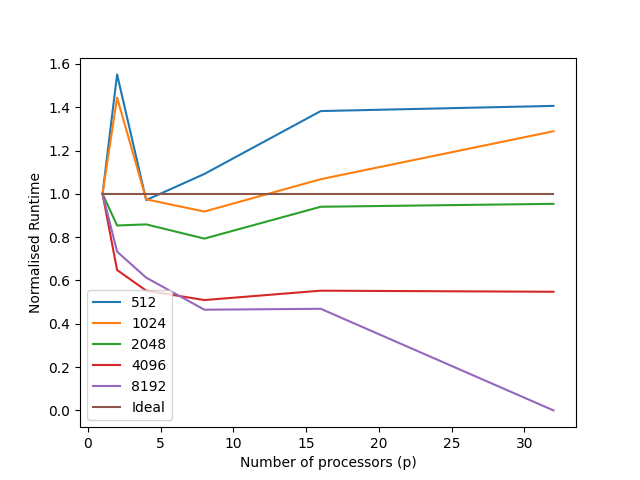
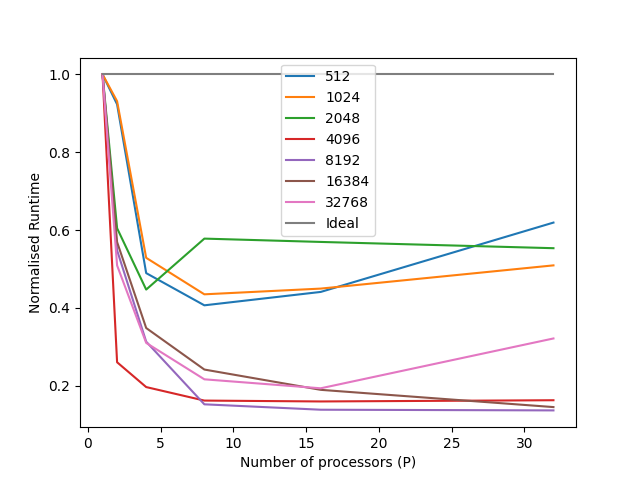
Updating Graphs

diff --git a/TesterFiles/MPI/Lapack/MatrixMult_MPI_SGEMM_Scatter.py b/TesterFiles/MPI/Lapack/MatrixMult_MPI_SGEMM_Scatter.py
@@ -13,13 +13,14 @@ mat_power = int(sys.argv[1])
 mat_size = 2**mat_power
 
 # Initialize the 2 random matrices only if this is rank 0
-mat_A = None
-mat_B = None
 if rank == 0:
     mat_A = np.random.rand(mat_size,mat_size).astype(np.float32)
     mat_B = np.random.rand(mat_size,mat_size).astype(np.float32)
     mat_B = np.transpose(mat_B)
     mat_B = np.ascontiguousarray(mat_B, dtype=np.float32)
+else:
+    mat_A = None
+    mat_B = None
 
 comm.Barrier()
 total_start = MPI.Wtime()
@@ -30,35 +31,28 @@ pars_j = int(2**(np.floor(power)))
 len_i = int(mat_size/pars_i)
 len_j = int(mat_size/pars_j)
 factor = 2**(int(np.log2(size))%2)
+count_A = [len_i*mat_size for _ in range(size)]
+count_B = [len_j*mat_size for _ in range(size)]
 displ_A = [len_i*mat_size * (factor * list_rank // pars_i) for list_rank in range(size)]
 displ_B = [len_j*mat_size * (list_rank % pars_j) for list_rank in range(size)]
 
 sub_mat_A = np.empty((len_i,mat_size),dtype=np.float32)
 sub_mat_B = np.empty((len_j,mat_size),dtype=np.float32)
 
-if rank == 0:
-    for i in range(1,size):
-        comm.Send([mat_A[displ_A[i]:displ_A[i]+len_i],MPI.FLOAT],dest=i,tag=25)
-        comm.Send([mat_B[displ_B[i]:displ_B[i]+len_j],MPI.FLOAT],dest=i,tag=25)
-    sub_mat_A = mat_A[displ_A[0]:displ_A[0]+len_i]
-    sub_mat_B = mat_B[displ_B[0]:displ_B[0]+len_j]
-else:
-    comm.Recv([sub_mat_A,MPI.FLOAT],source=0)
-    comm.Recv([sub_mat_B,MPI.FLOAT],source=0)
+comm.Scatterv([mat_A,count_A,displ_A,MPI.FLOAT],sub_mat_A,root=0)
+comm.Scatterv([mat_B,count_B,displ_B,MPI.FLOAT],sub_mat_B,root=0)
 
-del mat_A
-del mat_B 
+mat_A = None
+mat_B = None
 
-comm.Barrier()
 calc_start = MPI.Wtime()
 
 sub_mat_C = FB.sgemm(alpha=1.0, a=sub_mat_A, b=sub_mat_B, trans_b=True)
 
-comm.Barrier()
 calc_finish = MPI.Wtime()
 
-del sub_mat_A
-del sub_mat_B
+sub_mat_A = None
+sub_mat_B = None
 
 mat_C = None
 if rank == 0:
@@ -69,7 +63,6 @@ displ_C = [len_i*len_j*list_rank for list_rank in range(size)]
 sub_mat_C = np.ascontiguousarray(sub_mat_C, dtype=np.float32)
 comm.Gatherv(sub_mat_C,[mat_C,count_C,displ_C,MPI.FLOAT],root=0)
 
-comm.Barrier()
 total_finish = MPI.Wtime()
 
 if rank == 0:
@@ -107,14 +100,13 @@ if rank == 0:
     gather_df = pd.read_pickle("Time_dfs/gather_df.pkl")
     total_df = pd.read_pickle("Time_dfs/total_df.pkl")
     max_cores = 32
-    max_core_power = 6
-    core_list = [2**j for j in range(max_core_power)]
+    core_list = [2**j for j in range(mat_power+1)]
     if size == 1:
         #add a new line with a new val at the left
-        scatter_df = scatter_df.append( pd.DataFrame([[scatter_time if i==0 else 0.0 for i in range(max_core_power)]],columns=core_list, index=[mat_size]) )
-        calc_df = calc_df.append( pd.DataFrame([[calc_time if i==0 else 0.0 for i in range(max_core_power)]],columns=core_list, index=[mat_size]) )
-        gather_df = gather_df.append( pd.DataFrame([[gather_time if i==0 else 0.0 for i in range(max_core_power)]],columns=core_list, index=[mat_size]) )
-        total_df = total_df.append( pd.DataFrame([[total_time if i==0 else 0.0 for i in range(max_core_power)]],columns=core_list, index=[mat_size]) )
+        scatter_df = scatter_df.append( pd.DataFrame([[scatter_time if i==0 else 0.0 for i in range(mat_power+1)]],columns=core_list, index=[mat_size]) )
+        calc_df = calc_df.append( pd.DataFrame([[calc_time if i==0 else 0.0 for i in range(mat_power+1)]],columns=core_list, index=[mat_size]) )
+        gather_df = gather_df.append( pd.DataFrame([[gather_time if i==0 else 0.0 for i in range(mat_power+1)]],columns=core_list, index=[mat_size]) )
+        total_df = total_df.append( pd.DataFrame([[total_time if i==0 else 0.0 for i in range(mat_power+1)]],columns=core_list, index=[mat_size]) )
     elif size > 1:
         #add new value at right place
         size_power = int(np.log2(size))

diff --git a/TesterFiles/MPI/Lapack/MatrixMult_MPI_SGEMM_Send.py b/TesterFiles/MPI/Lapack/MatrixMult_MPI_SGEMM_Send.py
@@ -1,0 +1,83 @@
+from scipy.linalg import blas as FB
+from mpi4py import MPI
+import pandas as pd
+import numpy as np
+import time
+import sys
+
+# mpiexec -n 32 python MatrixMult_MPI_SGEMM_Send.py 13
+
+
+comm = MPI.COMM_WORLD
+rank = comm.Get_rank()
+size = comm.Get_size()
+
+mat_power = int(sys.argv[1])
+mat_size = 2**mat_power
+
+# Initialize the 2 random matrices only if this is rank 0
+if rank == 0:
+    mat_A = np.random.rand(mat_size,mat_size).astype(np.float32)
+    mat_B = np.random.rand(mat_size,mat_size).astype(np.float32)
+    mat_B = np.transpose(mat_B)
+    mat_B = np.ascontiguousarray(mat_B, dtype=np.float32)
+else:
+    mat_A = None
+    mat_B = None
+
+comm.Barrier()
+total_start = MPI.Wtime()
+
+power = np.log2(size)/2
+pars_i = int(2**(np.ceil(power)))
+pars_j = int(2**(np.floor(power)))
+len_i = int(mat_size/pars_i)
+len_j = int(mat_size/pars_j)
+factor = 2**(int(np.log2(size))%2)
+displ_A = [len_i * (factor * list_rank // pars_i) for list_rank in range(size)]
+displ_B = [len_j * (list_rank % pars_j) for list_rank in range(size)]
+
+sub_mat_A = np.empty((len_i,mat_size),dtype=np.float32)
+sub_mat_B = np.empty((len_j,mat_size),dtype=np.float32)
+
+if rank == 0:
+    for i in range(1,size):
+        comm.Send([mat_A[displ_A[i]:displ_A[i]+len_i],MPI.FLOAT],dest=i,tag=25)
+        comm.Send([mat_B[displ_B[i]:displ_B[i]+len_j],MPI.FLOAT],dest=i,tag=25)
+    sub_mat_A = mat_A[displ_A[0]:displ_A[0]+len_i]
+    sub_mat_B = mat_B[displ_B[0]:displ_B[0]+len_j]
+else:
+    comm.Recv([sub_mat_A,MPI.FLOAT],source=0)
+    comm.Recv([sub_mat_B,MPI.FLOAT],source=0)
+
+mat_A = None
+mat_B = None
+
+comm.Barrier()
+calc_start = MPI.Wtime()
+
+sub_mat_C = FB.sgemm(alpha=1.0, a=sub_mat_A, b=sub_mat_B, trans_b=True)
+
+comm.Barrier()
+calc_finish = MPI.Wtime()
+
+sub_mat_A = None
+sub_mat_B = None
+
+mat_C = None
+if rank == 0:
+    mat_C = np.empty(mat_size*mat_size,dtype=np.float32)
+
+count_C = [len_i*len_j for _ in range(size)]
+displ_C = [len_i*len_j*list_rank for list_rank in range(size)]
+sub_mat_C = np.ascontiguousarray(sub_mat_C, dtype=np.float32)
+comm.Gatherv(sub_mat_C,[mat_C,count_C,displ_C,MPI.FLOAT],root=0)
+
+comm.Barrier()
+total_finish = MPI.Wtime()
+
+if rank == 0:
+    mat_C = np.split(mat_C, size, axis=0)
+    mat_C = np.apply_along_axis(func1d=np.reshape, axis=1, arr=mat_C, newshape=(len_i,len_j) )
+    mat_C = np.vstack( np.split( np.concatenate(mat_C,axis=1) , pars_i, axis=1) )
+

diff --git a/TesterFiles/MPI_IO/MatrixMult_MPI_IO.py b/TesterFiles/MPI_IO/MatrixMult_MPI_IO.py
@@ -37,6 +37,7 @@ factor = 2**(int(np.log2(size))%2)
 i_coord = factor * rank // pars_i
 j_coord = rank % pars_j
 
+comm.Barrier()
 io_start = MPI.Wtime()
 
 #Opening and reading matrix A
@@ -53,10 +54,12 @@ fh_B.Read_at_all(offset_B, buf_mat_B)
 mat_B = np.transpose(buf_mat_B)
 fh_B.Close()
 
+comm.Barrier()
 calc_start = MPI.Wtime()
 
 mat_C = FB.sgemm(alpha=1.0, a=buf_mat_A, b=mat_B)
 
+comm.Barrier()
 calc_finish = MPI.Wtime()
 
 buf_mat_C = np.ascontiguousarray(mat_C)
@@ -70,9 +73,9 @@ fh_C.Write_all(buf_mat_C)
 filetype.Free()
 fh_C.Close()
 
+comm.Barrier()
 io_finish = MPI.Wtime()
 
-comm.Barrier()
 
 proc0_total_start = comm.bcast(io_start,root=0)
 
@@ -100,13 +103,14 @@ if rank == 0:
     write_df = pd.read_pickle("Time_dfs/write_df.pkl")
     total_df = pd.read_pickle("Time_dfs/total_df.pkl")
     max_cores = 32
-    core_list = [2**j for j in range(int(np.log2(max_cores))+1)]
+    max_core_power = 6
+    core_list = [2**j for j in range(max_core_power)]
     if size == 1:
         #add a new line with a new val at the left
-        read_df = read_df.append( pd.DataFrame([tuple([read_time if i==0 else 0.0 for i in range(int(np.log2(max_cores))+1)])],columns=core_list, index=[mat_size]) )
-        calc_df = calc_df.append( pd.DataFrame([tuple([calc_time if i==0 else 0.0 for i in range(int(np.log2(max_cores))+1)])],columns=core_list, index=[mat_size]) )
-        write_df = write_df.append( pd.DataFrame([tuple([write_time if i==0 else 0.0 for i in range(int(np.log2(max_cores))+1)])],columns=core_list, index=[mat_size]) )
-        total_df = total_df.append( pd.DataFrame([tuple([total_time if i==0 else 0.0 for i in range(int(np.log2(max_cores))+1)])],columns=core_list, index=[mat_size]) )
+        read_df = read_df.append( pd.DataFrame([[read_time if i==0 else 0.0 for i in range(max_core_power)]],columns=core_list, index=[mat_size]) )
+        calc_df = calc_df.append( pd.DataFrame([[calc_time if i==0 else 0.0 for i in range(max_core_power)]],columns=core_list, index=[mat_size]) )
+        write_df = write_df.append( pd.DataFrame([[write_time if i==0 else 0.0 for i in range(max_core_power)]],columns=core_list, index=[mat_size]) )
+        total_df = total_df.append( pd.DataFrame([[total_time if i==0 else 0.0 for i in range(max_core_power)]],columns=core_list, index=[mat_size]) )
     elif size > 1:
         #add new value at right place
         size_power = int(np.log2(size))

diff --git a/TesterFiles/MPI/Gen_MPI_Barchart_All_Cores.py b/TesterFiles/MPI/Gen_MPI_Barchart_All_Cores.py
@@ -12,28 +12,28 @@ for func_name in func_list:
     total_df = pd.read_pickle(f"{func_name}/Time_dfs/total_df.pkl")
     total_df = total_df.sort_index()
     total_df = total_df.groupby(total_df.index).mean()
-    #print(total_df)
+    print(total_df)
 
     scatter_df = pd.read_pickle(f"{func_name}/Time_dfs/scatter_df.pkl")
     scatter_df = scatter_df.sort_index()
     scatter_df = scatter_df.groupby(scatter_df.index).mean()
     norm_scatter_df = scatter_df.combine(total_df, normalise)
-    #print("norm_scatter_df")
-    #print(norm_scatter_df)
+    print("norm_scatter_df")
+    print(norm_scatter_df)
 
     calc_df = pd.read_pickle(f"{func_name}/Time_dfs/calc_df.pkl")
     calc_df = calc_df.sort_index()
     calc_df = calc_df.groupby(calc_df.index).mean()
     norm_calc_df = calc_df.combine(total_df, normalise)
-    #print("norm_calc_df")
-    #print(norm_calc_df)
+    print("norm_calc_df")
+    print(norm_calc_df)
 
     gather_df = pd.read_pickle(f"{func_name}/Time_dfs/gather_df.pkl")
     gather_df = gather_df.sort_index()
     gather_df = gather_df.groupby(gather_df.index).mean()
     norm_gather_df = gather_df.combine(total_df, normalise)
-    #print("norm_gather_df")
-    #print(norm_gather_df)
+    print("norm_gather_df")
+    print(norm_gather_df)
 
 
     bar_width = 0.1

diff --git a/TesterFiles/Fortran/Gen_fortran_speedup_graph.py b/TesterFiles/Fortran/Gen_fortran_speedup_graph.py
@@ -1,4 +1,5 @@
 from matplotlib import pyplot as plt
+from pathlib import Path
 import pandas as pd
 
 def read_fortran_times():
@@ -15,23 +16,25 @@ def apply_speedup(time_df,core_list):
     return speedup_df
 
 
-def gen_plot(df):
+def gen_plot(df,p):
     df = df.T
     df.plot()
-    plt.xlabel("Number of Processors")
-    plt.ylabel("Runtime Speedup")
+    plt.xlabel("Number of Processors (P)")
+    plt.ylabel("Runtime Speedup (S)")
     plt.legend()
-    plt.show()
-
+    plt.legend([f"N={n}" if n != "Ideal" else "Ideal" for n in df.columns])
+    #plt.show()
+    plt.savefig(f"{p.parent.parent}\Figures\Fortran\Fortran_MPI_speedup.png")
 
 def main():
     max_cores = 6
     core_list = [2**i for i in range(max_cores)]
+    p = Path.cwd()
     fortran_df = read_fortran_times()
     print(f"fortran_df:\n{fortran_df}")
     speedup_df = apply_speedup(fortran_df,core_list)
     print(f"speedup_df:\n{speedup_df}")
-    gen_plot(speedup_df)
+    gen_plot(speedup_df,p)
 
 
 if __name__ == '__main__':

diff --git a/TesterFiles/MPI_IO/Gen_MPI_IO_graphs.py b/TesterFiles/MPI_IO/Gen_MPI_IO_graphs.py
@@ -52,14 +52,14 @@ def main():
         print(f"time df: \n{time_df}")
         speedup_df = apply_speedup(time_df,core_list)
         print(f"speedup df: \n{speedup_df}")
-        gen_plot(speedup_df,p,True,speedup_pkl_name)
+        #gen_plot(speedup_df,p,True,speedup_pkl_name)
     for norm_pkl_name in norm_pkl_list:
         print(f"\n\n{norm_pkl_name}")
         time_df = read_df_pickle(f"Time_dfs/{norm_pkl_name}_df.pkl")
         print(f"time df: \n{time_df}")
         norm_df = apply_norm(time_df,0,core_list)
         print(f"norm df: \n{norm_df}")
-        gen_plot(norm_df,p,False,norm_pkl_name)
+        #gen_plot(norm_df,p,False,norm_pkl_name)
 
 
 if __name__ == '__main__':

diff --git a/TesterFiles/Multiprocessing/Lapack/MatrixMult_Multiprocessing_Lapack.py b/TesterFiles/Multiprocessing/Lapack/MatrixMult_Multiprocessing_Lapack.py
@@ -71,9 +71,11 @@ def gen_time_results(mat_size, core_list):
 
 
 def main():
-    size_list = [2**i for i in range(7,16)]
+    #size_list = [2**i for i in range(7,16)]
+    size_list = [2**i for i in range(16,18)]
     core_list = [2**j for j in range(6)]
-    no_runs = 10
+    #no_runs = 10
+    no_runs=4
     send_time_df = pd.DataFrame(columns=core_list)
     calc_time_df = pd.DataFrame(columns=core_list)
     recv_time_df = pd.DataFrame(columns=core_list)

diff --git a/TesterFiles/MPI/Gen_MPI_graphs.py b/TesterFiles/MPI/Gen_MPI_graphs.py
@@ -26,9 +26,9 @@ def apply_speedup(time_df,core_list):
 def gen_plot(df,p,speedup,pkl_name,func_name):
     df = df.T
     df.plot()
-    plt.xlabel("Number of processors (p)")
+    plt.xlabel("Number of processors (P)")
     if speedup:
-        plt.ylabel("Runtime Speedup")
+        plt.ylabel("Runtime Speedup (S)")
     else:
         plt.ylabel("Normalised Runtime")
     plt.legend()

diff --git a/TesterFiles/Multiprocessing/Gen_multiprocessing_graphs.py b/TesterFiles/Multiprocessing/Gen_multiprocessing_graphs.py
@@ -32,7 +32,6 @@ def gen_plot(df,p,speedup,pkl_name,func_name):
     else:
         plt.ylabel("Normalised Runtime")
     plt.legend([f"N={n}" if n != "Ideal" else "Ideal" for n in df.columns])
-    p = Path.cwd()
     plt.show()
     #if speedup:
     #    plt.savefig(f"{p.parent.parent}\Figures\Multiprocessing\multiprocessing_{func_name}_{pkl_name}_speedup.png")
